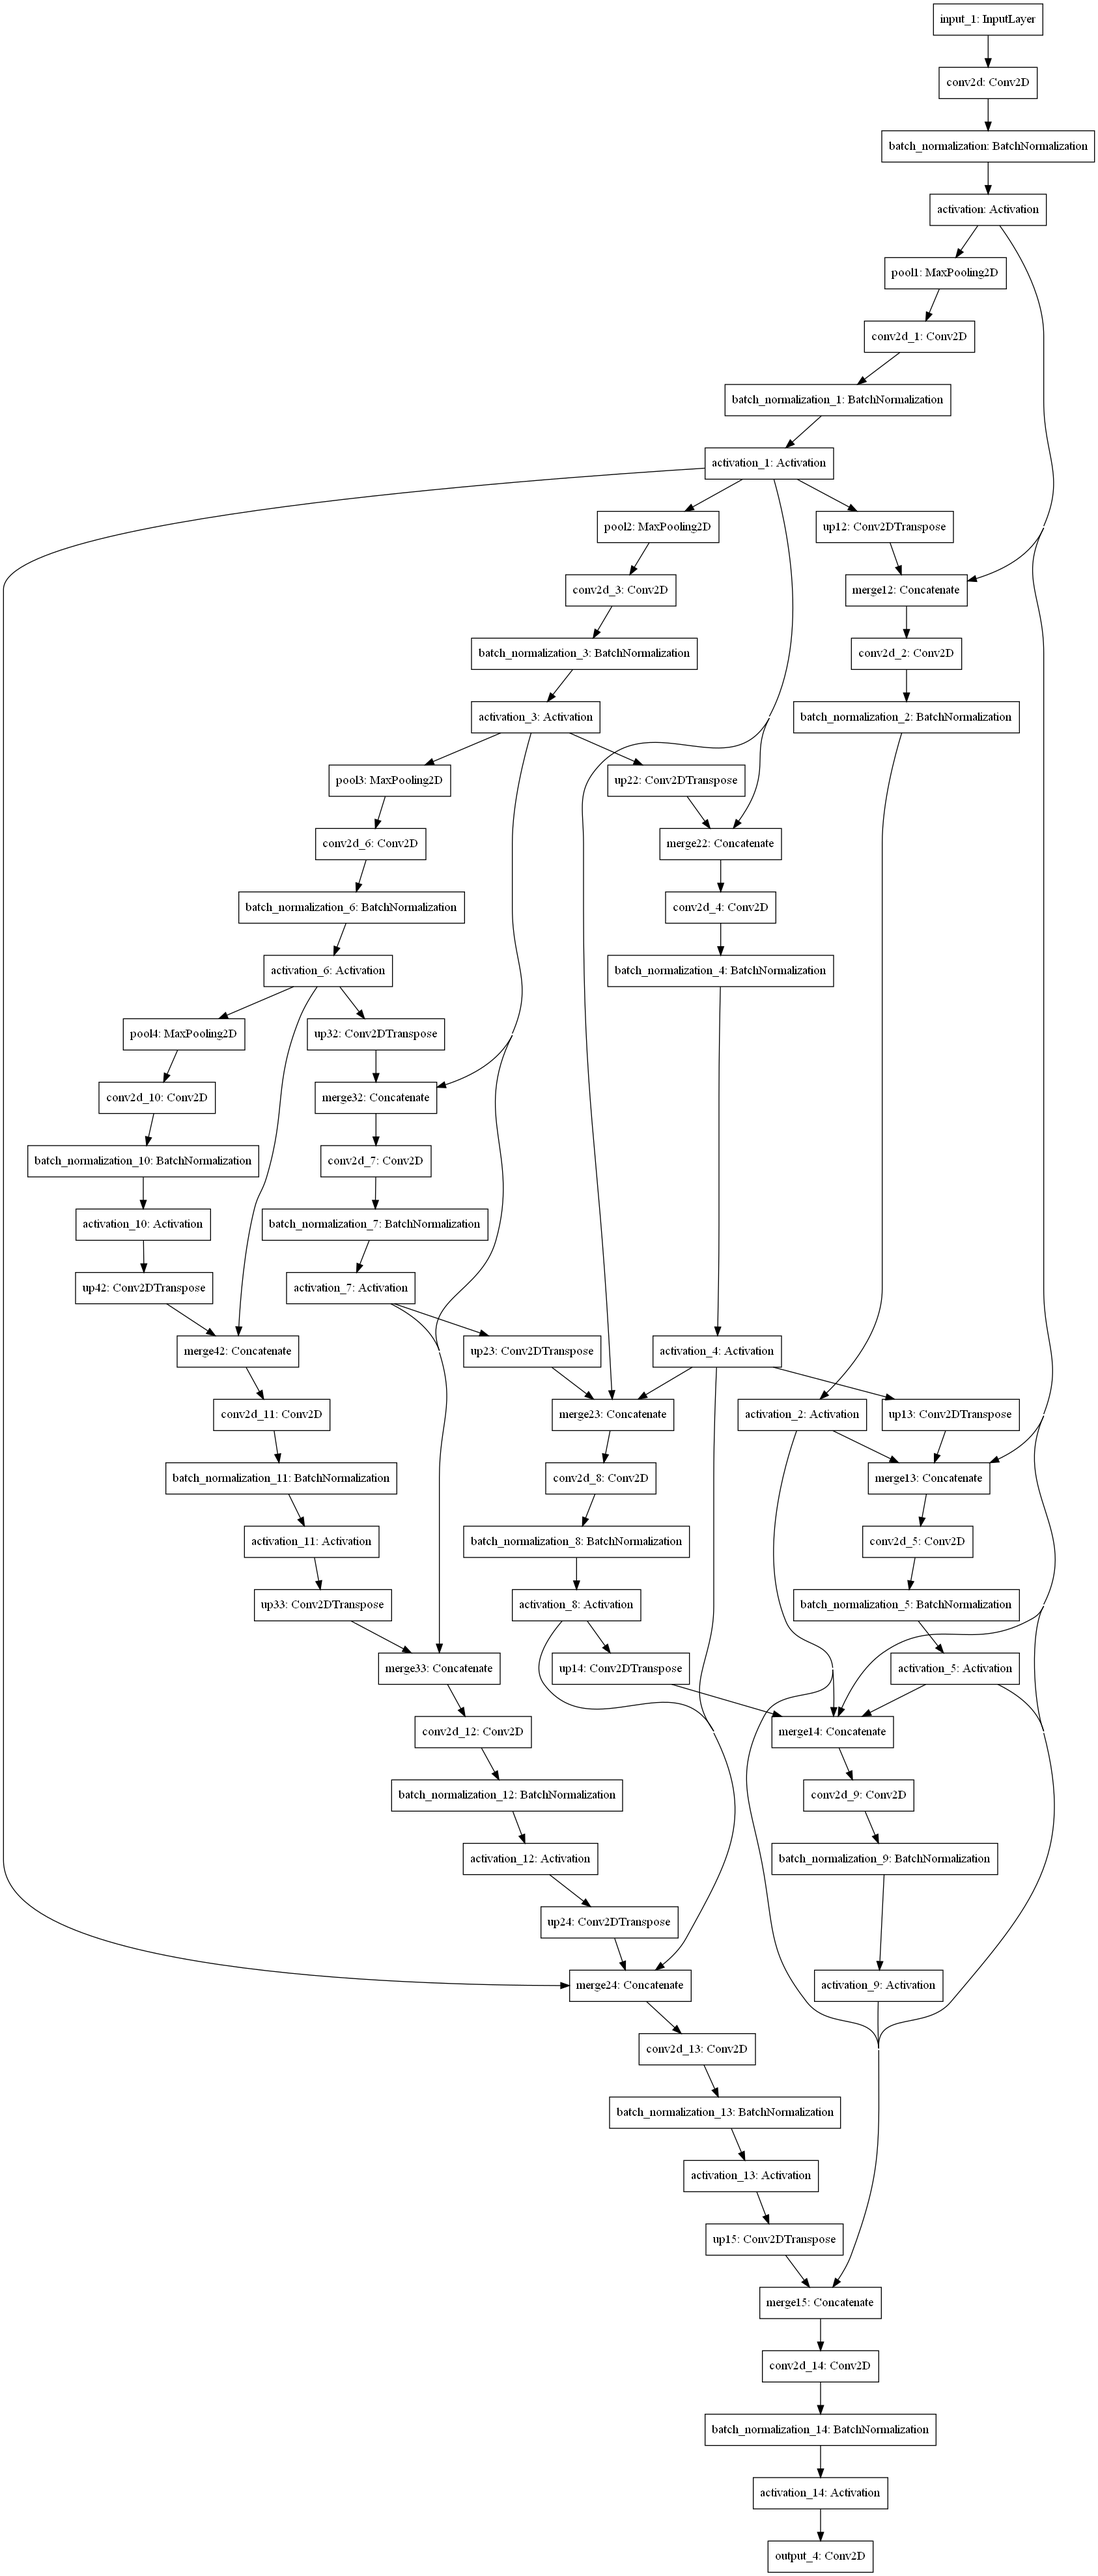
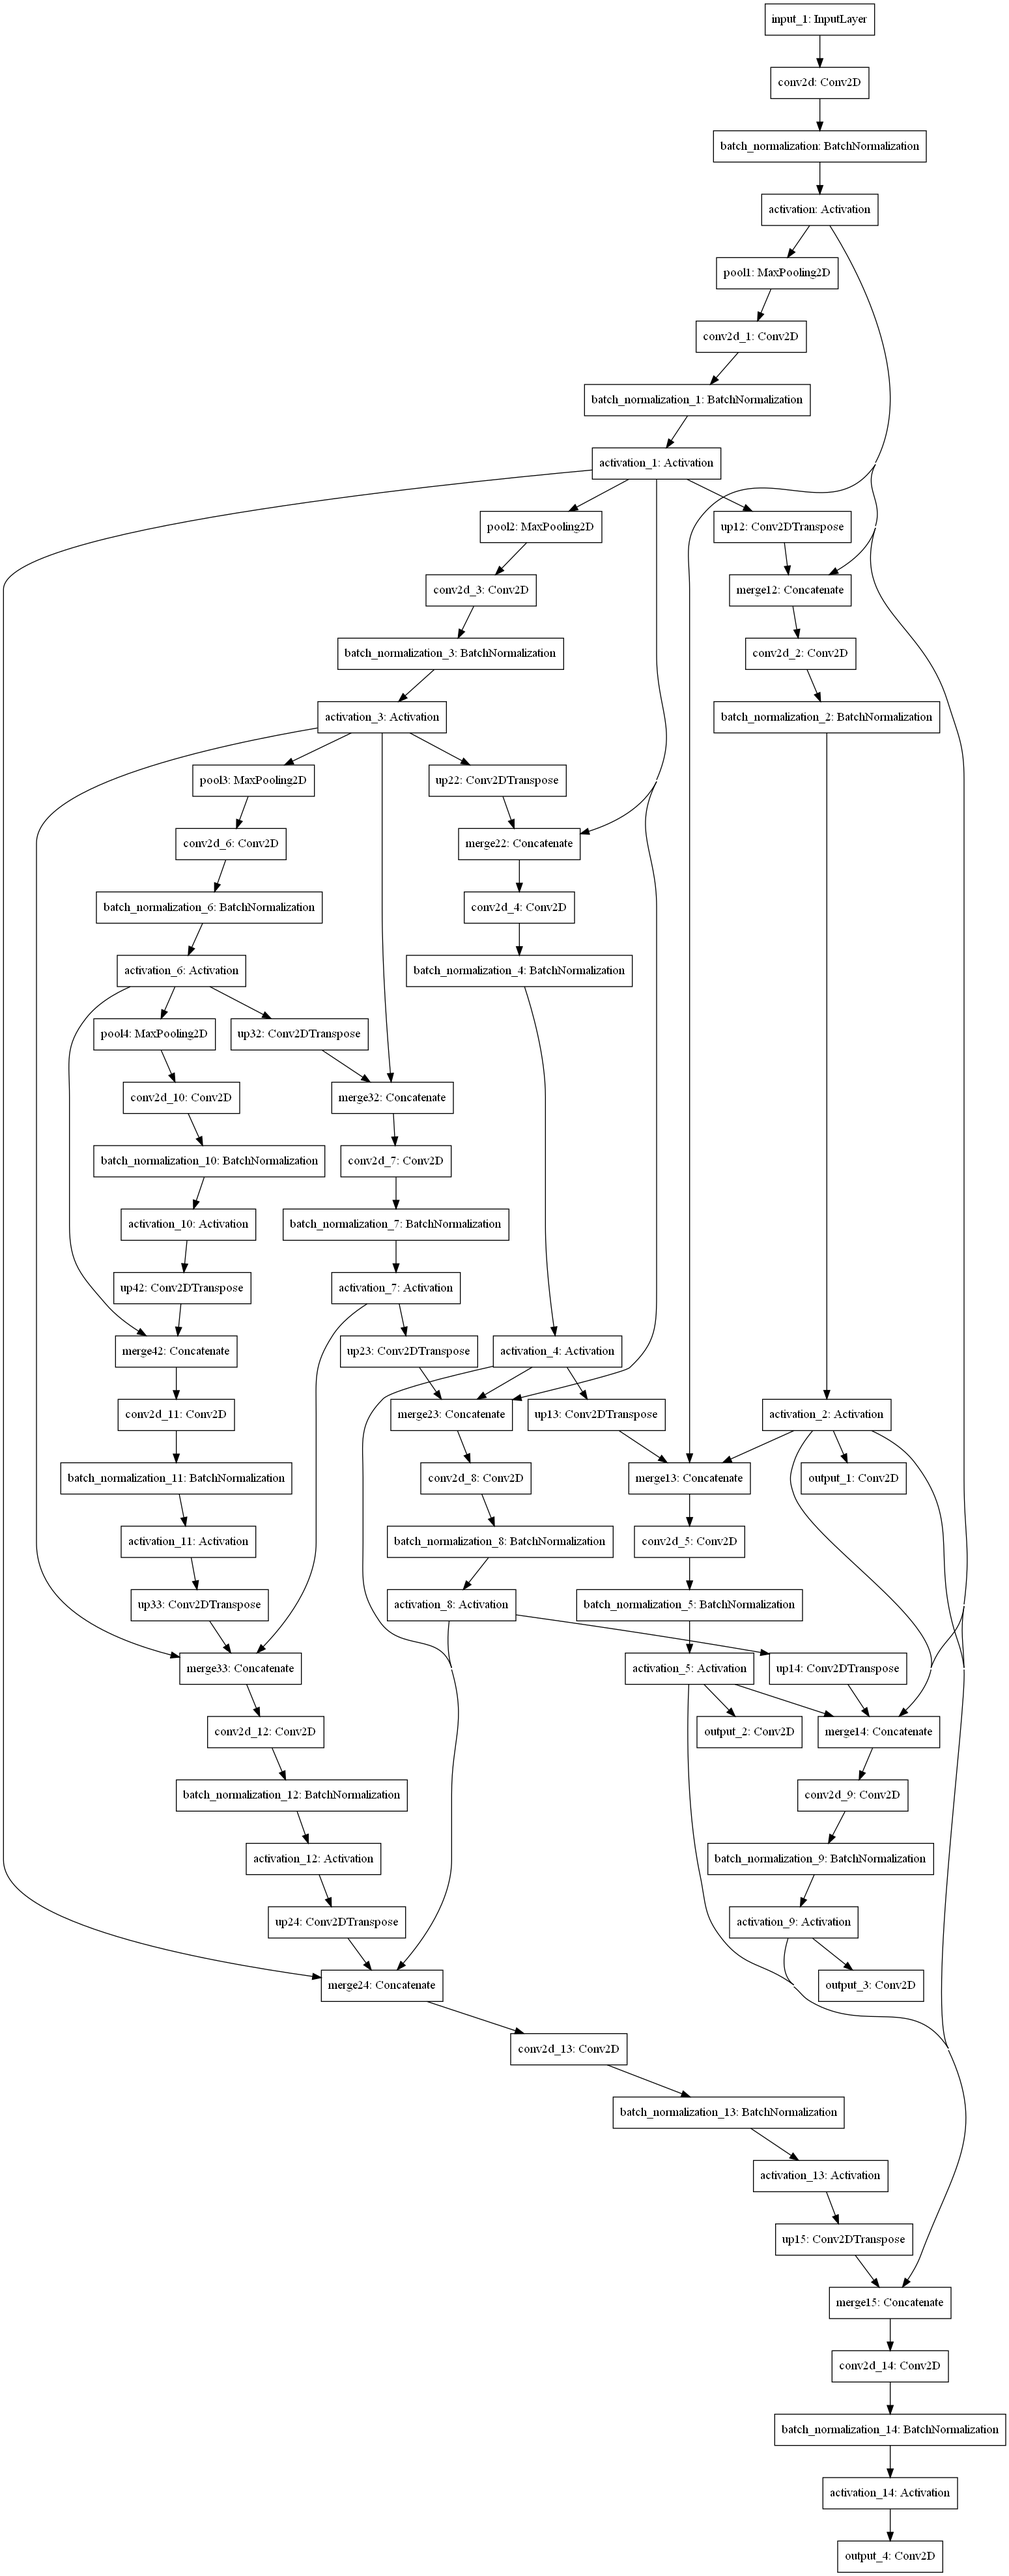
添加deep supervision图片存储方法

diff --git a/unet-master/main.py b/unet-master/main.py
@@ -38,9 +38,9 @@ testGene = testGenerator("data/membrane/test")
 # model = UNet1()
 # model = FCN()
 # model = NestedUNet('unet_membrane.hdf5', using_deep_supervision=True)
-# model = NestedUNet(using_deep_supervision=True)
+model = NestedUNet(using_deep_supervision=True)
 # model = NestedUNet()
-model = NestedUNet('unet_membrane.hdf5')
+# model = NestedUNet('unet_membrane.hdf5')
 
 
 # keras 回调函数
@@ -59,7 +59,7 @@ model.fit_generator(myGene, steps_per_epoch=14, epochs=20, callbacks=callbacks_l
 
 results = model.predict_generator(testGene, 30, verbose=1)
 # 保存分割后的图像
-saveResult("data/membrane/test", results)
+saveResult("data/membrane/test", results, deep_supervision=True)
 
 # # 显示loss和val_loss（过拟合可视化）
 # loss = history.history['loss']

diff --git a/unet-master/data.py b/unet-master/data.py
@@ -116,7 +116,10 @@ def labelVisualize(num_class, color_dict, img):
 
 
 # 保存结果
-def saveResult(save_path,npyfile):
+def saveResult(save_path, npyfile, deep_supervision=False):
+    if(deep_supervision):
+        # lenth = len(npyfile)
+        npyfile = npyfile[-1]
     for i, item in enumerate(npyfile):
         img = item[:, :, 0]
         io.imsave(os.path.join(save_path, "%d_predict.tif" % i), img_as_ubyte(img))
